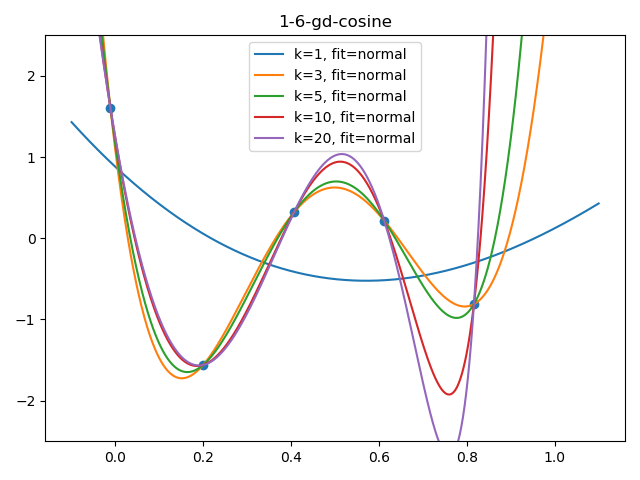
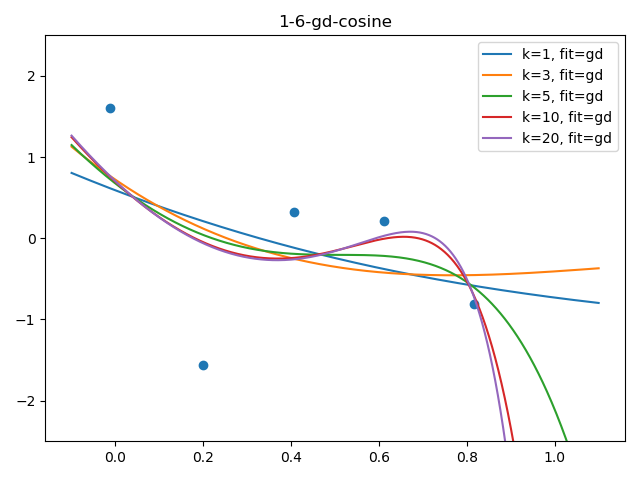
Fixed functions calls

diff --git a/a1/src/featuremaps/featuremap.py b/a1/src/featuremaps/featuremap.py
@@ -204,10 +204,10 @@ def main(medium_path, small_path):
     # Section 1 Part 6
     run_exp(small_path, False,  [1, 3, 5, 10, 20], "1-6.png", "normal")
     run_exp(small_path, True,  [1, 3, 5, 10, 20], "1-6-cosine.png", "normal")
-    run_exp(small_path, False,  [1, 3, 5, 10, 20], "1-6-gd.png", "normal")
-    run_exp(small_path, True,  [1, 3, 5, 10, 20], "1-6-gd-cosine.png", "normal")
-    run_exp(small_path, False,  [1, 3, 5, 10, 20], "1-6-sgd.png", "normal")
-    run_exp(small_path, True,  [1, 3, 5, 10, 20], "1-6-sgd-cosine.png", "normal")
+    run_exp(small_path, False,  [1, 3, 5, 10, 20], "1-6-gd.png", "gd", iterations=10000)
+    run_exp(small_path, True,  [1, 3, 5, 10, 20], "1-6-gd-cosine.png", "gd", iterations=10000)
+    run_exp(small_path, False,  [1, 3, 5, 10, 20], "1-6-sgd.png", "sgd", iterations=10000)
+    run_exp(small_path, True,  [1, 3, 5, 10, 20], "1-6-sgd-cosine.png", "sgd", iterations=10000)
     # *** END CODE HERE ***
 
 
